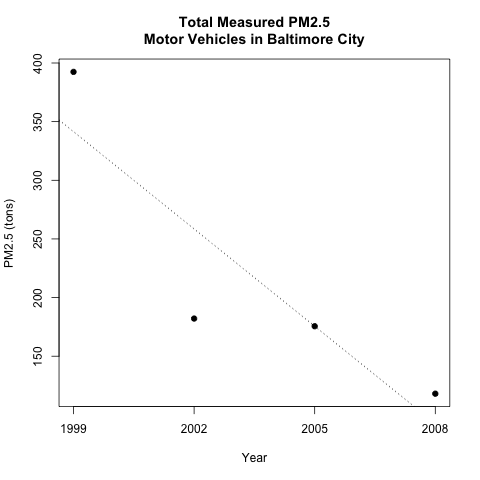
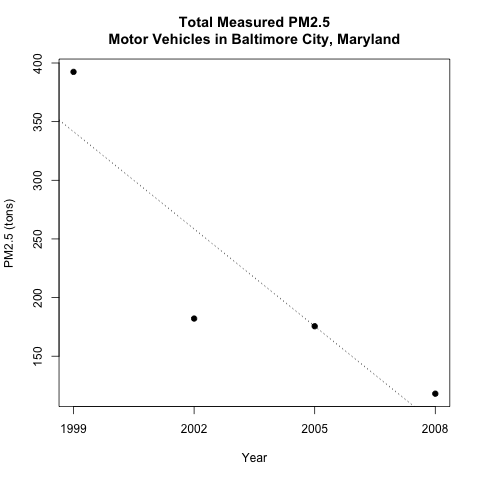
Completed project.

Changed region(s): [[0.2188, 0.0625, 0.8438, 0.0938]]

diff --git a/README.md b/README.md
@@ -1,2 +1,18 @@
 # DSStudy_ExData_Project2
 Course project 2 for the Johns Hopkins Exploratory Data Analysis course on Coursera.
+
+## Purpose
+
+These R scripts process data from the [EPA National Emissions Inventory](http://www.epa.gov/ttn/chief/eiinformation.html) into plots that explore fine particulate matter (PM2.5) measurement changes by year, source, and location.
+
+## Scripts
+
+Script | Description | Result
+------ | ----------- | ------
+get_dataset.R | Downloads the [dataset](https://d396qusza40orc.cloudfront.net/exdata%2Fdata%2FNEI_data.zip) and extracts it into the working directory. | NEI.zip, summarySCC_PM25.rds, and Source_Classification_Code.rds
+plot1.R | Plots the total measured PM2.5 by year.  A dotted linear regression line is added to show the approximate change over time. | plot1.png
+plot2.R | Plots the total measured PM2.5 in Baltimore City, Maryland by year.  A dotted linear regression line is added to show the approximate change over time. | plot2.png
+plot3.R | Plots the total measured PM2.5 in Baltimore City, Maryland by year, grouped by source type.  Linear regression lines are added for each source type group to show the approximate changes over time. | plot3.png
+plot4.R | Plots the total measured PM2.5 from coal combustion sources by year.  Coal combustion sources were identified by selecting those with both "coal" and "comb" occuring in their text description fields, case-insensitive.  A dotted linear regression line is added to show the approximate change over time. | plot4.png
+plot5.R | Plots the total measured PM2.5 from motor vehicle sources in Baltimore City, Maryland by year.  Motor vehicle sources were identified by selecting those with "veh" but not "lawn" occuring in their text description fields, case-insensitive.  A dotted linear regression line is added to show the approximate change over time. | plot5.png
+plot6.R | Plots the total measured PM2.5 from motor vehicle sources by year, grouped by Baltimore City, Maryland and Los Angeles County, California.  Motor vehicle sources were identified by selecting those with "veh" but not "lawn" occuring in their text description fields, case-insensitive.  Linear regression lines are added to show the approximate changes over time. | plot6.png
